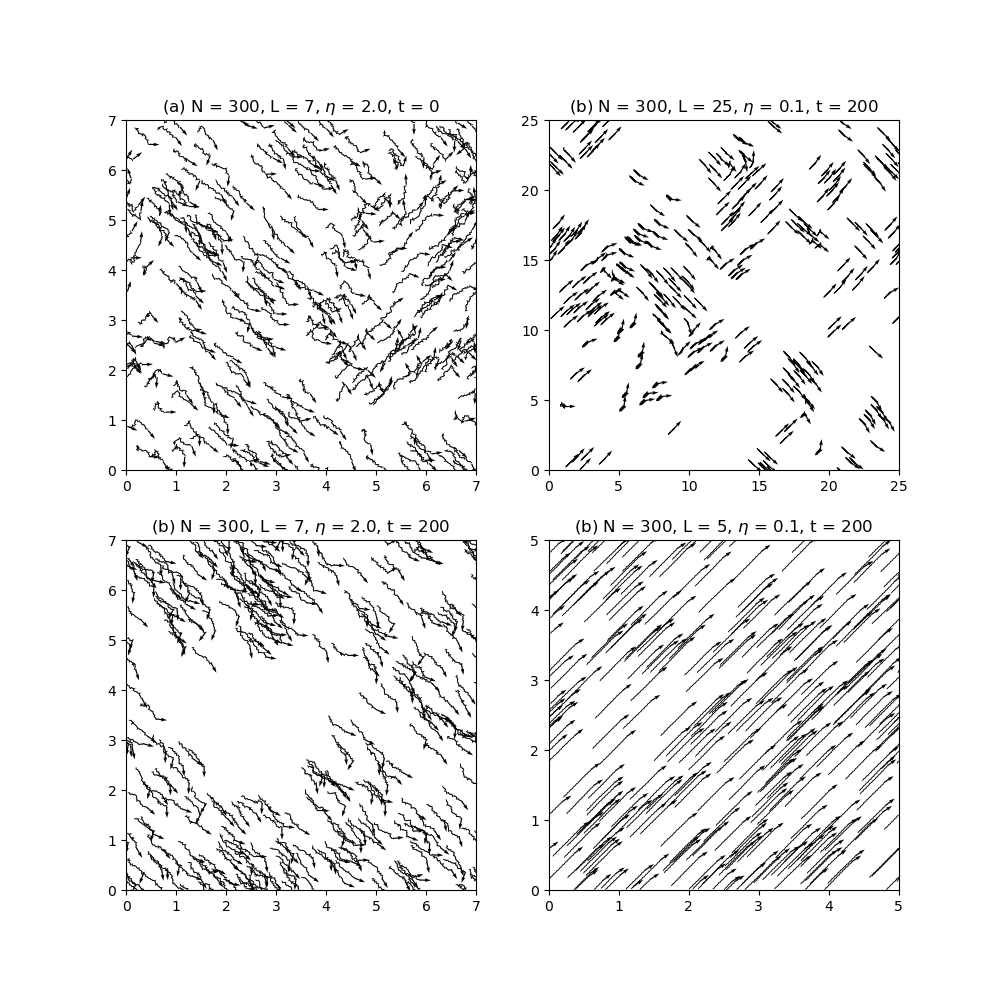
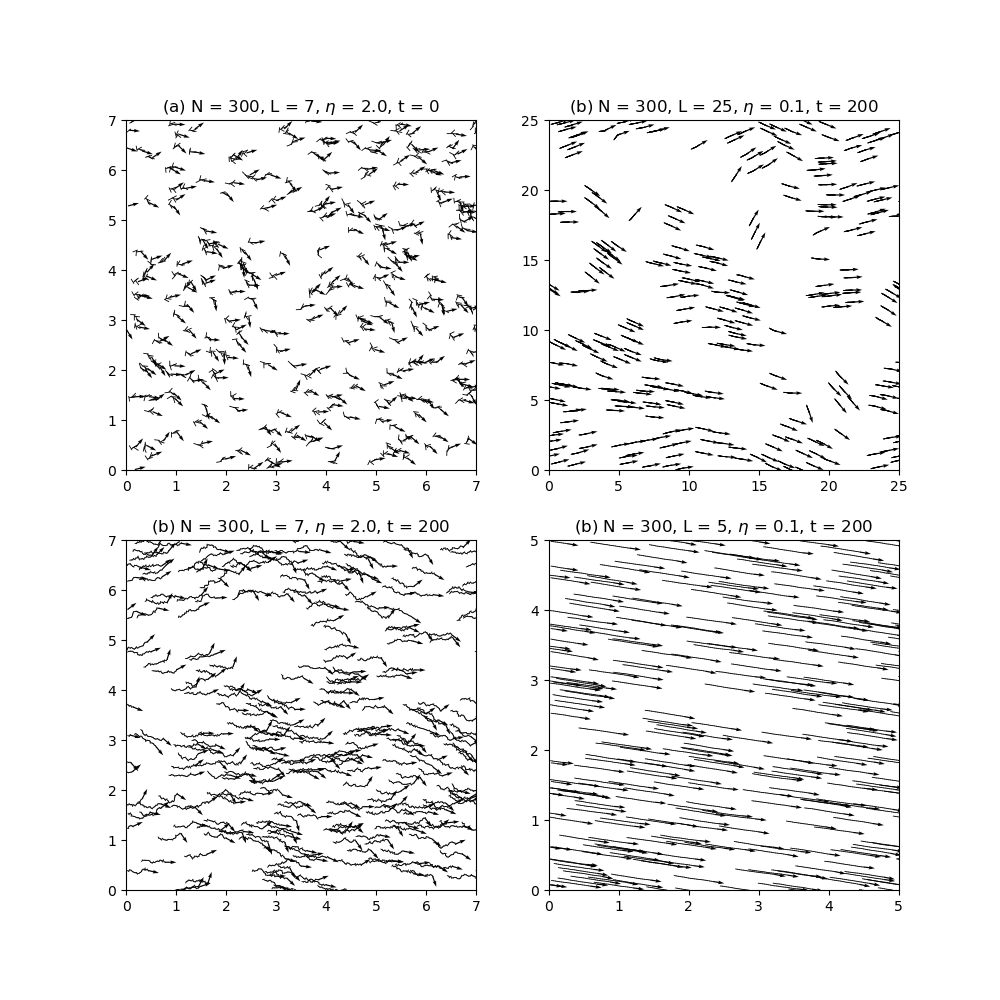
plots

diff --git a/ploter.py b/ploter.py
@@ -28,8 +28,8 @@ ax1.set_xlim(0, L)
 ax1.set_ylim(0, L)
 ax1.set_title(f'(a) N = {N}, L = {L}, $\eta$ = {n}, t = 0')
 ax1.set_aspect('equal')
-ax1.quiver(X[:19], Y[:19], np.cos(Theta[:19]), np.sin(Theta[:19]), headwidth=0, headlength=0, headaxislength=0)
-ax1.quiver(X[20], Y[20], np.cos(Theta[20]), np.sin(Theta[20]))
+ax1.quiver(X[:4], Y[:4], np.cos(Theta[:4]), np.sin(Theta[:4]), headwidth=0, headlength=0, headaxislength=0)
+ax1.quiver(X[5], Y[5], np.cos(Theta[5]), np.sin(Theta[5]))
 
 
 ax2 = plt.subplot(2, 2, 2)
@@ -125,9 +125,9 @@ fig = plt.figure(figsize=(10, 10))
 
 ax1 = plt.subplot(1, 1, 1)
 
-N = 300
+N = 4000
 n = 0.0
-L = 7
+L = 31
 data = np.load(f'./data/viscek_n={n}N={N}L={L}.npy')
 print(data.shape)
 X = data[0]
